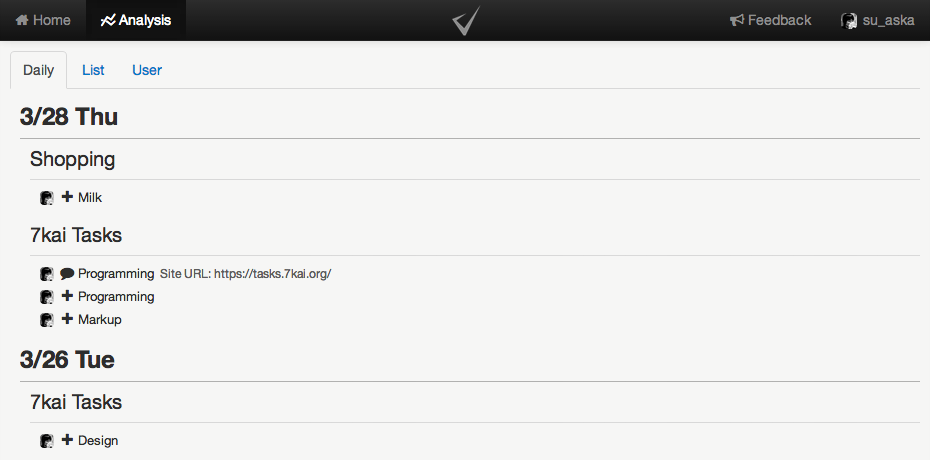
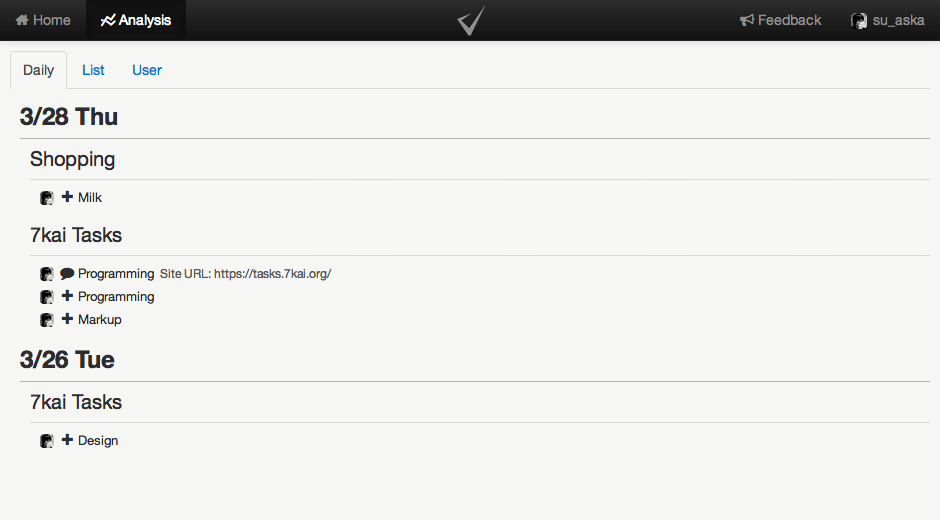
bug: edit old task.

Changed region(s): [[0.0, 0.1217, 0.3742, 0.913], [0.0, 0.0304, 1.0, 0.0913], [0.0312, 0.9435, 0.1247, 0.9739]]

diff --git a/htdocs/static/js/v4/app-tasks-desktop.js b/htdocs/static/js/v4/app-tasks-desktop.js
@@ -1218,7 +1218,7 @@ app.setup.aside = function(aside){
 		// });
 	});
 
-	app.addListener('showTask', function(task){
+	aside.on('show', function(e, task){
 		if (! task) {
 			aside.data('task', null);
 			form.find('input[name="list_id"]').val('');
@@ -1349,6 +1349,16 @@ app.setup.aside = function(aside){
 			li.prependTo(comments);
 		});
 	});
+	app.addListener('registerTask', function(task){
+		var showTask = aside.data('task');
+		if (showTask && showTask.id === task.id) {
+			aside.trigger('show', app.data.task_map[task.id]);
+		}
+	});
+	app.addListener('showTask', function(task){
+		aside.trigger('show', task);
+	});
+
 	// app.addListener('clearList', function(list){
 	// 	var task = aside.data('task');
 	// 	if (!task || task.closed) {
@@ -1617,6 +1627,7 @@ app.setup.registerTask = function(form){
 		}
 	});
 	form.on('show', function(e, list, task){
+		var task = app.data.task_map[task.id];
 		form.find('[data-tab="task-basic"]').click();
 		form.data('list', list);
 		list_id.val(list.id);

diff --git a/htdocs/static/css/signin.css b/htdocs/static/css/signin.css
@@ -54,8 +54,7 @@ form {
 	margin: 5px 0 20px;
 }
 section {
-	margin-bottom: 160px;
-	padding: 0 5px;
+	margin-bottom: 320px;
 	position: relative;
 }
 section h2 {
@@ -72,9 +71,12 @@ section h2 {
 }
 footer {
 	border-top:3px solid #000000;
-	margin-top: 160px;
+	margin-top: 320px;
 	padding: 20px;
 	background-color: #F7F7F6;
+}
+footer .pull-left {
+	width: 160px;
 }
 dl {
 	margin-top: 0;
@@ -101,13 +103,13 @@ dl {
 		font-size: 12px;
 		margin-bottom: 70px;
 	}
-	h2 {
+	section h2 {
 		font-size: 18px;
 	}
 }
 @media (max-width: 480px) {
 	header {
-		margin: 10px 0 20px 0;
+		margin: 10px 0 80px 0;
 	}
 	header h1 {
 		font-size: 32px;
@@ -122,5 +124,11 @@ dl {
 	}
 	header p {
 		margin-bottom: 20px;
+	}
+	section {
+		margin-bottom: 160px;
+	}
+	footer {
+		margin-top: 160px;
 	}
 }

diff --git a/htdocs/static/css/app-pc-v4.css b/htdocs/static/css/app-pc-v4.css
@@ -719,13 +719,17 @@ table.task .rate > span > i {
 /*
  * コメントフォーム
  */
-aside > div > div {
+aside > div > div > p,
+aside > div > div > span {
 	margin-bottom: 5px;
 }
 aside > div > div > p {
 	max-width: 250px;
 	word-wrap: break-word;
 	word-break: break-all;
+}
+aside > div > div > span {
+	margin-left: 5px;
 }
 aside > div > .user img {
 	width: 14px;
